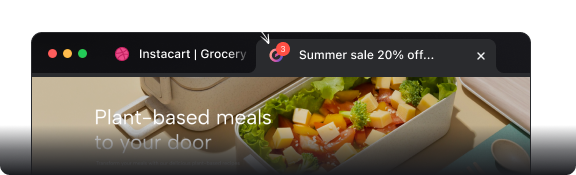
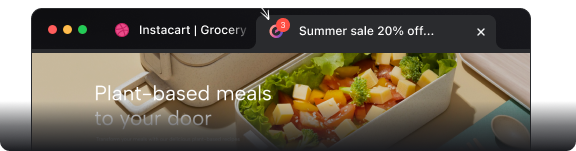
update

diff --git a/root.css b/root.css
@@ -7,7 +7,7 @@
   --body-bg: #04050e;
   --text-accent: #fff;
   --text-second: #c7c7c7;
-  --container-max-w-dk: 1760px;
+  --container-max-w-dk: 1775px;
   --container-max-w-tb: calc(100vw - 60px);
   --container-max-w-mb: calc(100vw - 30px);
   --container-sm: 1440px;
@@ -47,12 +47,10 @@ ol {
 .container-sm {
   max-width: var(--container-max-w);
   --container-max-w: var(--container-max-w-mb);
-  padding: 0;
+  --bs-gutter-x:15px;
 }
 
 .row {
-  margin-left: 0;
-  margin-right: 0;
   --bs-gutter-x: 0rem;
   --bs-gutter-y: 0;
 }

diff --git a/index.html b/index.html
@@ -983,7 +983,7 @@
                       </h3>
                       <p class="empower_des">Enhance your shopping cart experience and boost your sales</p>
                     </div>
-                    <div class="img hdt-ratio" style="--aspect-ratioapt: 576/175;">
+                    <div class="img hdt-ratio" style="--aspect-ratioapt: 576/151;">
                       <img loading="lazy" src="./assets/images/empower/10.png" alt="">
                     </div>
                   </div>

diff --git a/index.css b/index.css
@@ -524,9 +524,7 @@ header {
   border: none;
   background: linear-gradient(96deg, #FF9C8D 2.41%, #D655A5 48.93%, #6053CB 94.5%);
 }
-.empower .img{
-  width: fit-content;
-}
+
 .empower .col-left{
   display: flex;
   align-items: center;
